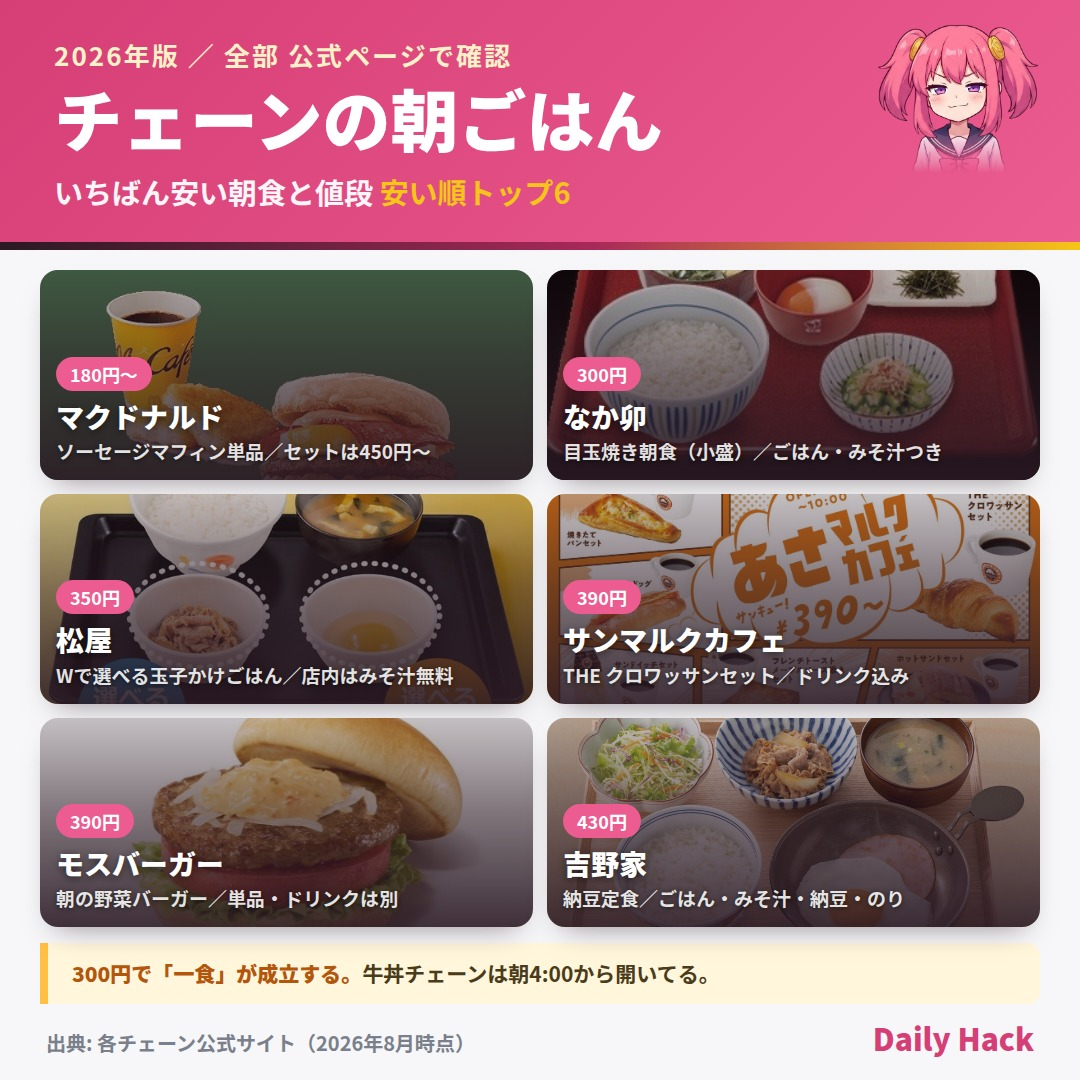
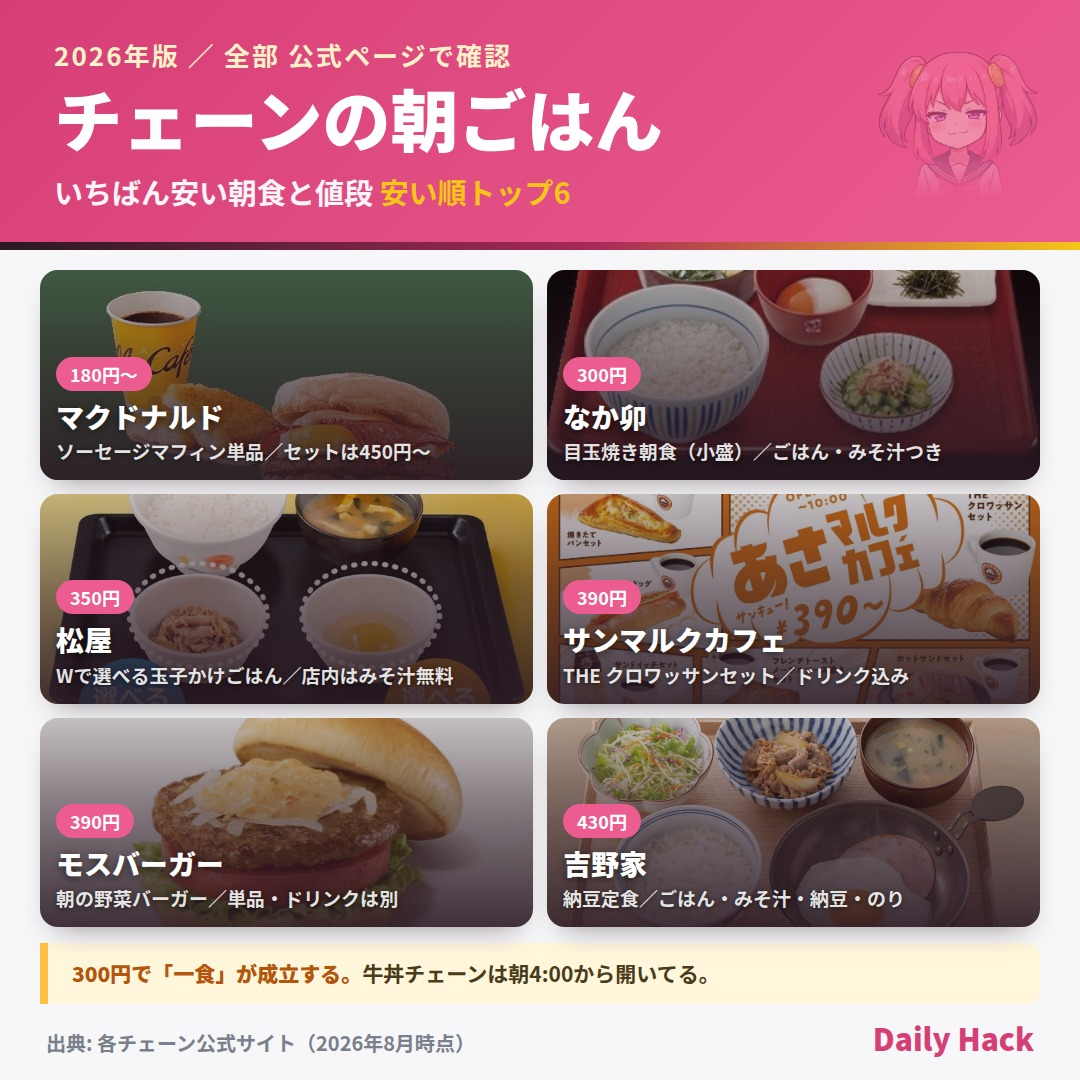
feat: キャラを透かしにして帯の中央に置く
指摘（2026-09-05）:
  > キャラの画像はもっと透過させて。顔の部分とかはうっすら帯に表示されているようなデザインに
  > 真ん中でいいのだけど、位置をもう少し下にして、帯の中で中央に表示されるように

- `.hero .mascot` に `opacity` を追加。`cover.mascotOpacity`（0〜1）で変えられる。既定 0.38
- `.hero` を `top:0; bottom:0; align-items:center` にして**帯の中で上下中央**へ
  （上端に貼り付けると帯の下半分が空いて浮いて見えた）
- 下端のぼかしを 72% → 62% に広げ、透かしとして自然に消えるようにした
- `.hero .mark` の `margin-top`（flex-start 前提の調整）を削除

濃さは 0.22 / 0.38 / 0.55 を実際に出して見比べ、0.38 を採用。

x-post-images スキルの §2-B と §6 に記録した。

Claude-Session: https://claude.ai/code/session_01H2JQqdMCeKNiMVUTrAyX2t

Changed region(s): [[0.7944, 0.0, 0.9778, 0.1833]]

diff --git a/.claude/skills/x-post-images/SKILL.md b/.claude/skills/x-post-images/SKILL.md
@@ -103,6 +103,9 @@ node scripts/gen-x-cards.mjs ops/data/x-cards/<slug>.json
 
 - **透過 PNG を選ぶ。** `expr-01`〜`expr-09` はアルファ付き。
   `mascot-avatar.png` は**アルファが無い**ので白い箱になる
+- **透かしとして置く。** `cover.mascotOpacity`（既定 `0.38`）で濃さを決める。
+  帯の中で**上下中央**に入り、下端は地に溶ける。
+  元画像はバストアップで裾が真横に切れているので、**そのまま置くと四角い箱に見える**
 - 表情は記事の空気で選ぶ。得意げなら `expr-05-smug`、応援なら `expr-04-cheer`
 - **見出しが折り返さないか必ず見る。** キャラの幅だけ見出しの領域が狭くなる。
   折れたら `title` を短くするか `<br>` で自分で切る
@@ -155,6 +158,7 @@ node scripts/gen-x-cards.mjs ops/data/x-cards/<slug>.json
 
 | 2026-09-05 | **1 枚目の右上のキャラを透過して表示して** | **PNG 自体は透過していた**（`expr-*.png` は RGBA・四隅 alpha=0）。原因は元画像がバストアップで**白いセーラー服の裾が真横に切れている**こと。濃紺の帯に置くと切り口が四角い箱に見える。`.hero .mascot` に `mask-image: linear-gradient(to bottom, #000 72%, transparent 97%)` を当てて切り口を地に溶かした。`gen-x-cards.mjs` 側なので以後のカード全部に効く |
 | 2026-09-05 | **上部の紺色の帯がブログのカラーと合っていない。毎回 同じ色ではなく、いくつかパターンを作って** | 紺 `#16243f` は `src/styles/global.css` の `:root` に**存在しない色**だった。ブログは**ピンク＋クリーム＋黄、地は濃いプラム `--ink: #2A1923`**。`:root` のトークンだけで 5 テーマを作った（`plum` / `berry` / `rose` / `cream` / `ink`）。`cover.theme` で指定、無指定なら **slug から自動で散らす**（記事ごとに変わり、同じ記事では毎回 同じ） |
+| 2026-09-05 | **キャラをもっと透過させて。顔の部分がうっすら帯に表示されているようなデザインに。位置は帯の中で上下中央** | `.hero .mascot` に `opacity`（`cover.mascotOpacity`・既定 0.38）を追加し、`.hero` を `top:0; bottom:0; align-items:center` にして帯の中央へ。下端のぼかしは 72% → 62% に広げた |
 <!-- 追記はこの表の下に。日付・指摘・反映 の 3 列を必ず埋める -->
 
 ## 7. 関連
